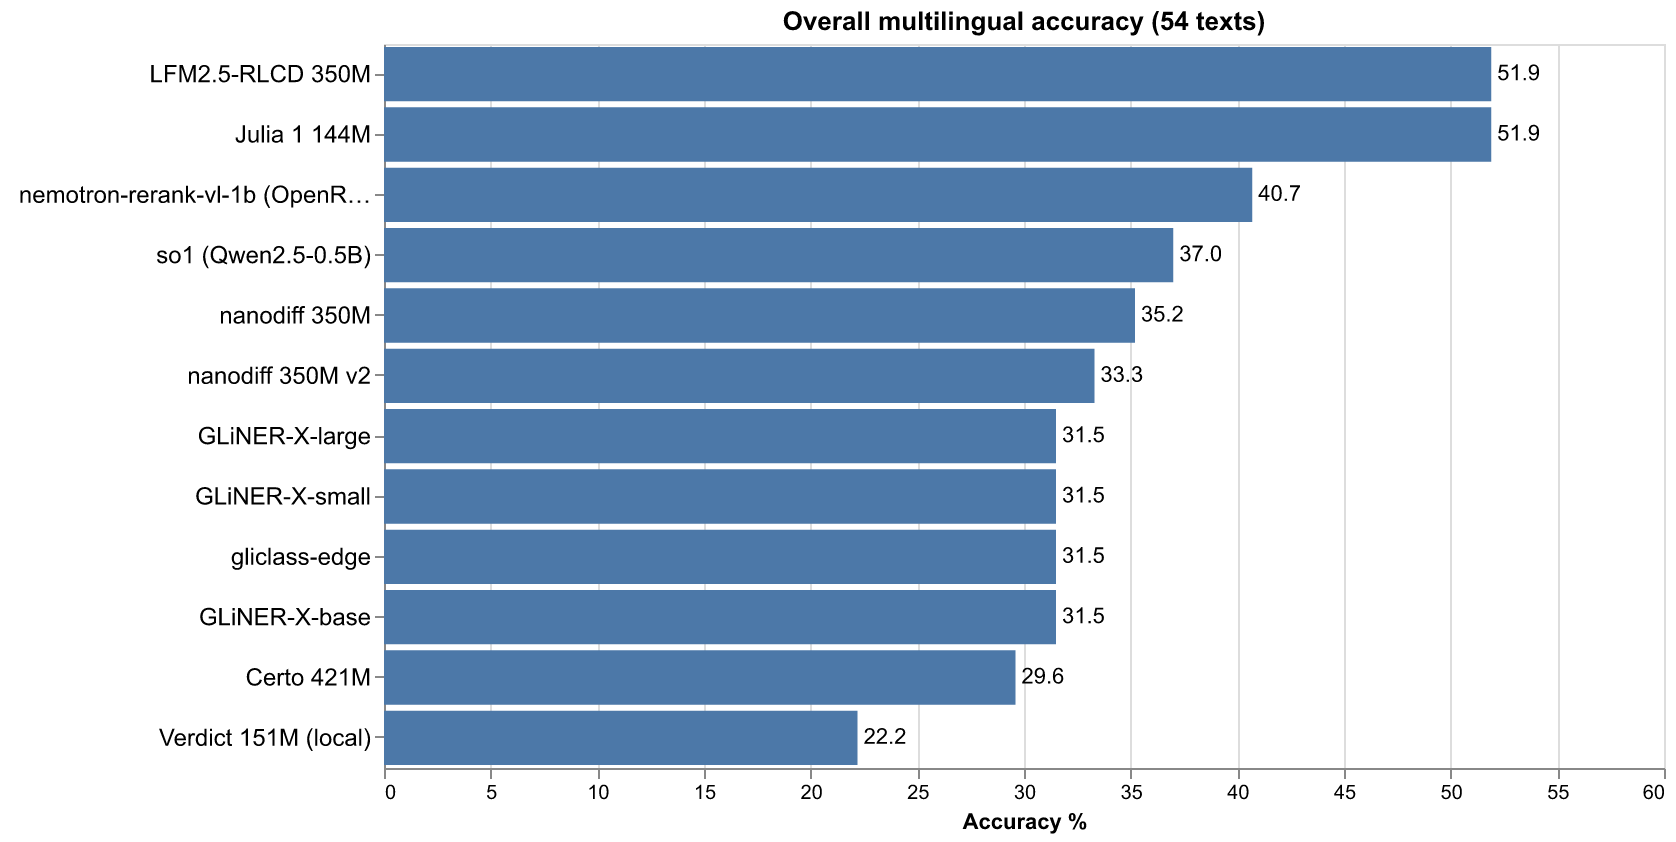
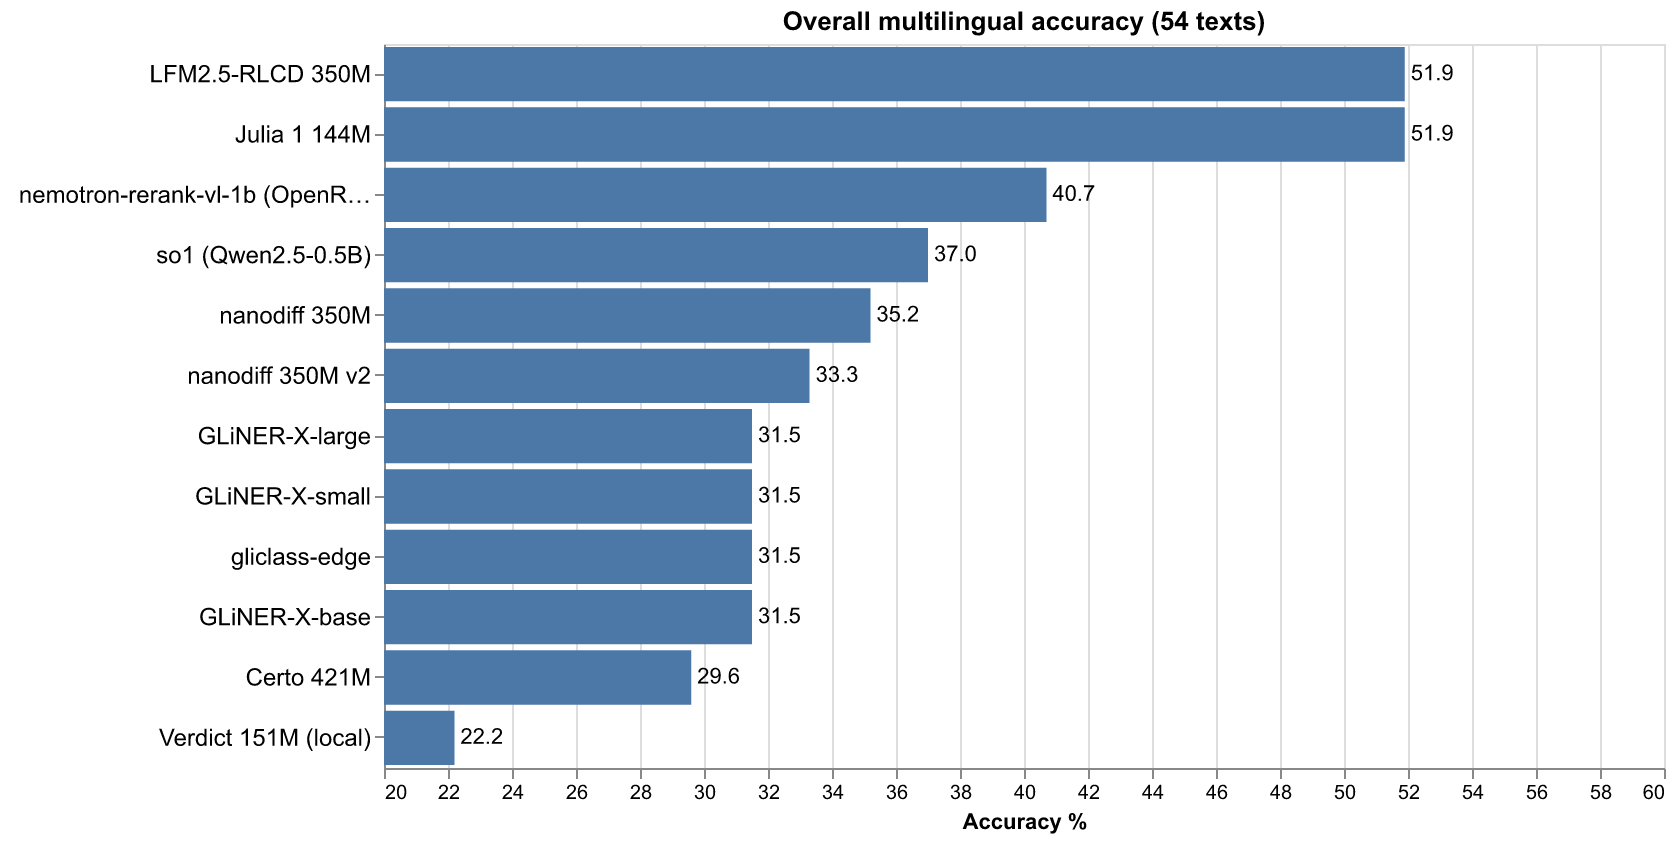
feat(charts): trim accuracy axes to the data floor
Bar charts (accuracy/NER/overall multilingual) and the difficulty-
spectrum y axis start at a round floor under the data instead of zero
when the values stay clear of it, so the spread between systems is
readable. Bars are anchored at the floor with x2 (same trick as the
log branch — a plain bar baseline defaults to zero and overflows the
axis); latency, cost and heatmap axes are untouched.

diff --git a/app.py b/app.py
@@ -93,7 +93,21 @@ def hbar_chart(df: pd.DataFrame, value: str, title: str,
         df = df.assign(**{"_floor": floor})
         log_extra = {"x2": alt.X2("_floor:Q")}
     else:
-        xscale = alt.Scale(domain=[0, df[value].max() * 1.12])
+        top = df[value].max() * 1.12
+        if (value.endswith("%") and df[value].min() >= 10
+                and df[value].max() - df[value].min() >= 2):
+            # no data near zero: start the axis at a round floor under
+            # the data so the spread stays readable — and anchor the
+            # bars there like the log branch, since a bar baseline
+            # defaults to zero and would overflow past the axis
+            floor = df[value].min() - (df[value].max()
+                                       - df[value].min()) * 0.06
+            floor = floor - floor % 5
+            df = df.assign(**{"_floor": floor})
+            xscale = alt.Scale(domain=[floor, min(top, 102.0)], zero=False)
+            log_extra = {"x2": alt.X2("_floor:Q")}
+        else:
+            xscale = alt.Scale(domain=[0, top])
     return (
         alt.Chart(df, title=title)
         .mark_bar()
@@ -843,6 +857,11 @@ def spectrum_line(df: pd.DataFrame, y_title: str, title: str):
     would erase the earlier one."""
     dashes = [[1, 0], [6, 3], [2, 2], [10, 2, 2, 2], [8, 8],
               [3, 1, 3, 4], [12, 2, 4, 2], [1, 3]]
+    # start the y axis at the data floor when nothing lands near zero
+    # (hbar_chart applies the same rule to its % axes)
+    ymin = df[y_title].min()
+    yscale = (alt.Scale(domain=[ymin - 2, 100]) if ymin >= 10
+              else alt.Scale(domain=[0, 100]))
     return (
         alt.Chart(df, title=title)
         .mark_line(point=True, strokeWidth=2)
@@ -850,8 +869,7 @@ def spectrum_line(df: pd.DataFrame, y_title: str, title: str):
             x=alt.X("Question difficulty ≤:Q", scale=alt.Scale(domain=[0, 1]),
                     title="Question difficulty ≤ (fraction of systems "
                           "that failed it)"),
-            y=alt.Y(f"{y_title}:Q", scale=alt.Scale(domain=[0, 100]),
-                    title=y_title),
+            y=alt.Y(f"{y_title}:Q", scale=yscale, title=y_title),
             color=alt.Color("System:N",
                             legend=alt.Legend(columns=2,
                                               labelFontSize=11)),
